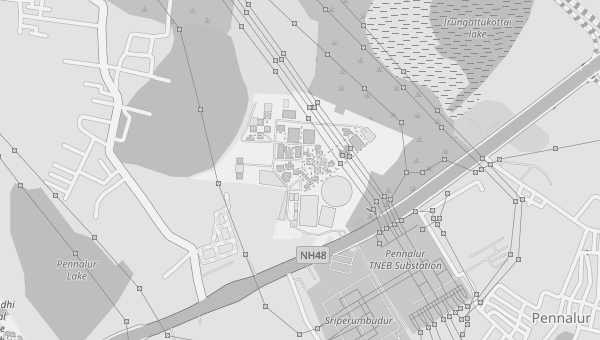
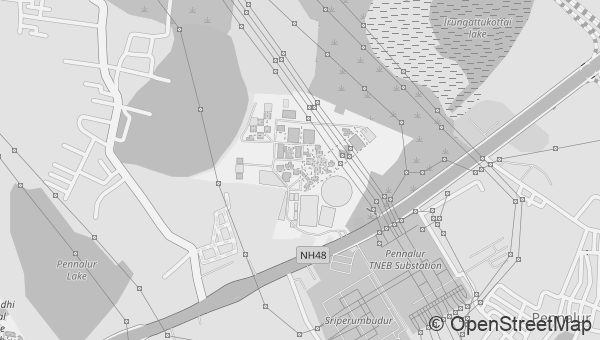
Take the map credit off the footer and into the picture
The line of text under the map is gone, as asked. The credit itself moves
into the bottom corner of the image, which is where a static map normally
carries it — OpenStreetMap's licence asks for it to be visible, and the
request was about a grey line cluttering the column rather than about the
licence.

Changed region(s): [[0.72, 0.9118, 0.99, 0.9706]]

diff --git a/src/components/layout/Footer.tsx b/src/components/layout/Footer.tsx
@@ -181,26 +181,25 @@ export function Footer() {
                 <div>
                   <h2 className={COLUMN_HEADING}>Visit us</h2>
                   {LOCATION.length > 0 ? (
-                    <>
-                      <address className="not-italic">
-                        {/* The whole address is the link, not a separate "view on
+                    <address className="not-italic">
+                      {/* The whole address is the link, not a separate "view on
                     map" line beneath it — an address on a site like this is
                     only ever there to be found, so making the text itself the
                     target saves a row and a redundant label. */}
-                        <ContactLink
-                          href={LOCATION_URL}
-                          icon={MapPin}
-                          brand={MAPS_RED}
-                          external
-                          className="text-small group"
-                        >
-                          {LOCATION.map((line) => (
-                            <span key={line} className="block">
-                              {line}
-                            </span>
-                          ))}
+                      <ContactLink
+                        href={LOCATION_URL}
+                        icon={MapPin}
+                        brand={MAPS_RED}
+                        external
+                        className="text-small group"
+                      >
+                        {LOCATION.map((line) => (
+                          <span key={line} className="block">
+                            {line}
+                          </span>
+                        ))}
 
-                          {/* The map is inside the address link rather than
+                        {/* The map is inside the address link rather than
                             beside it as a second one. Same reasoning as the
                             icon — see ContactLink: one destination should be
                             one target, not two rows announcing themselves as
@@ -211,48 +210,33 @@ export function Footer() {
                             The dot marks the campus: the picture is generated
                             centred on it, so the centre of the frame is the
                             place. A second pin here would only repeat the one
-                            already at the top of the row. */}
-                          <span className="border-wf-dot mt-4 block max-w-[17rem] overflow-hidden rounded-md border">
-                            <span className="relative block">
-                              <img
-                                src="/images/svce-map.png"
-                                alt=""
-                                width={600}
-                                height={340}
-                                loading="lazy"
-                                decoding="async"
-                                className="ease-smooth block w-full opacity-70 transition-opacity duration-200 group-hover:opacity-100"
-                              />
-                              <span
-                                aria-hidden="true"
-                                className="bg-accent-blue ring-bg/60 rounded-pill absolute top-1/2 left-1/2 size-2.5 -translate-x-1/2 -translate-y-1/2 ring-2"
-                              />
-                            </span>
+                            already at the top of the row.
+
+                            The OpenStreetMap credit the licence asks for is
+                            set into the bottom corner of the picture itself,
+                            the way a static map carries it — it was a line of
+                            text under the map and the club asked for that line
+                            gone, not the credit. Replacing the file means
+                            keeping it. */}
+                        <span className="border-wf-dot mt-4 block max-w-[17rem] overflow-hidden rounded-md border">
+                          <span className="relative block">
+                            <img
+                              src="/images/svce-map.png"
+                              alt=""
+                              width={600}
+                              height={340}
+                              loading="lazy"
+                              decoding="async"
+                              className="ease-smooth block w-full opacity-70 transition-opacity duration-200 group-hover:opacity-100"
+                            />
+                            <span
+                              aria-hidden="true"
+                              className="bg-accent-blue ring-bg/60 rounded-pill absolute top-1/2 left-1/2 size-2.5 -translate-x-1/2 -translate-y-1/2 ring-2"
+                            />
                           </span>
-                        </ContactLink>
-                      </address>
-
-                      {/* Outside the link, and a link of its own: the map is
-                        drawn from OpenStreetMap's own tiles, and the licence
-                        asks for the credit to be visible rather than buried in
-                        a file nobody opens.
-
-                        Indented by the width of the icon column — the 18px
-                        mark plus ContactLink's 12px gap — so it sits under the
-                        map it credits rather than under the heading. */}
-                      <p className="text-caption text-wf-button ms-[1.875rem] mt-2 max-w-[17rem]">
-                        Map ©{' '}
-                        <a
-                          href="https://www.openstreetmap.org/copyright"
-                          target="_blank"
-                          rel="noopener noreferrer"
-                          className="transition-colors duration-200 hover:text-white"
-                        >
-                          OpenStreetMap
-                        </a>{' '}
-                        contributors
-                      </p>
-                    </>
+                        </span>
+                      </ContactLink>
+                    </address>
                   ) : (
                     <Pending what="Address" />
                   )}
